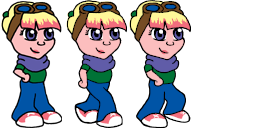
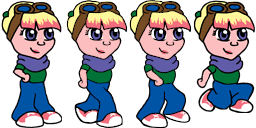
Add jump and fall anims, tweak run

Changed region(s): [[0.75, 0.0, 1.0, 0.9062]]

diff --git a/lib/game/entities/player.js b/lib/game/entities/player.js
@@ -19,9 +19,9 @@ ig.module(
         init: function( x, y, settings ) {
             this.parent( x, y, settings );
             this.addAnim( 'idle', 1, [0] );
-            this.addAnim( 'run', 0.07, [1,2] );
-            this.addAnim( 'jump', 0.07, [1,2] );
-            this.addAnim( 'fall', 0.07, [1,2] );
+            this.addAnim( 'run', 0.25, [0,1,0,2] );
+            this.addAnim( 'jump', 0.07, [3] );
+            this.addAnim( 'fall', 0.07, [3] );
         },
 
         update: function() {
